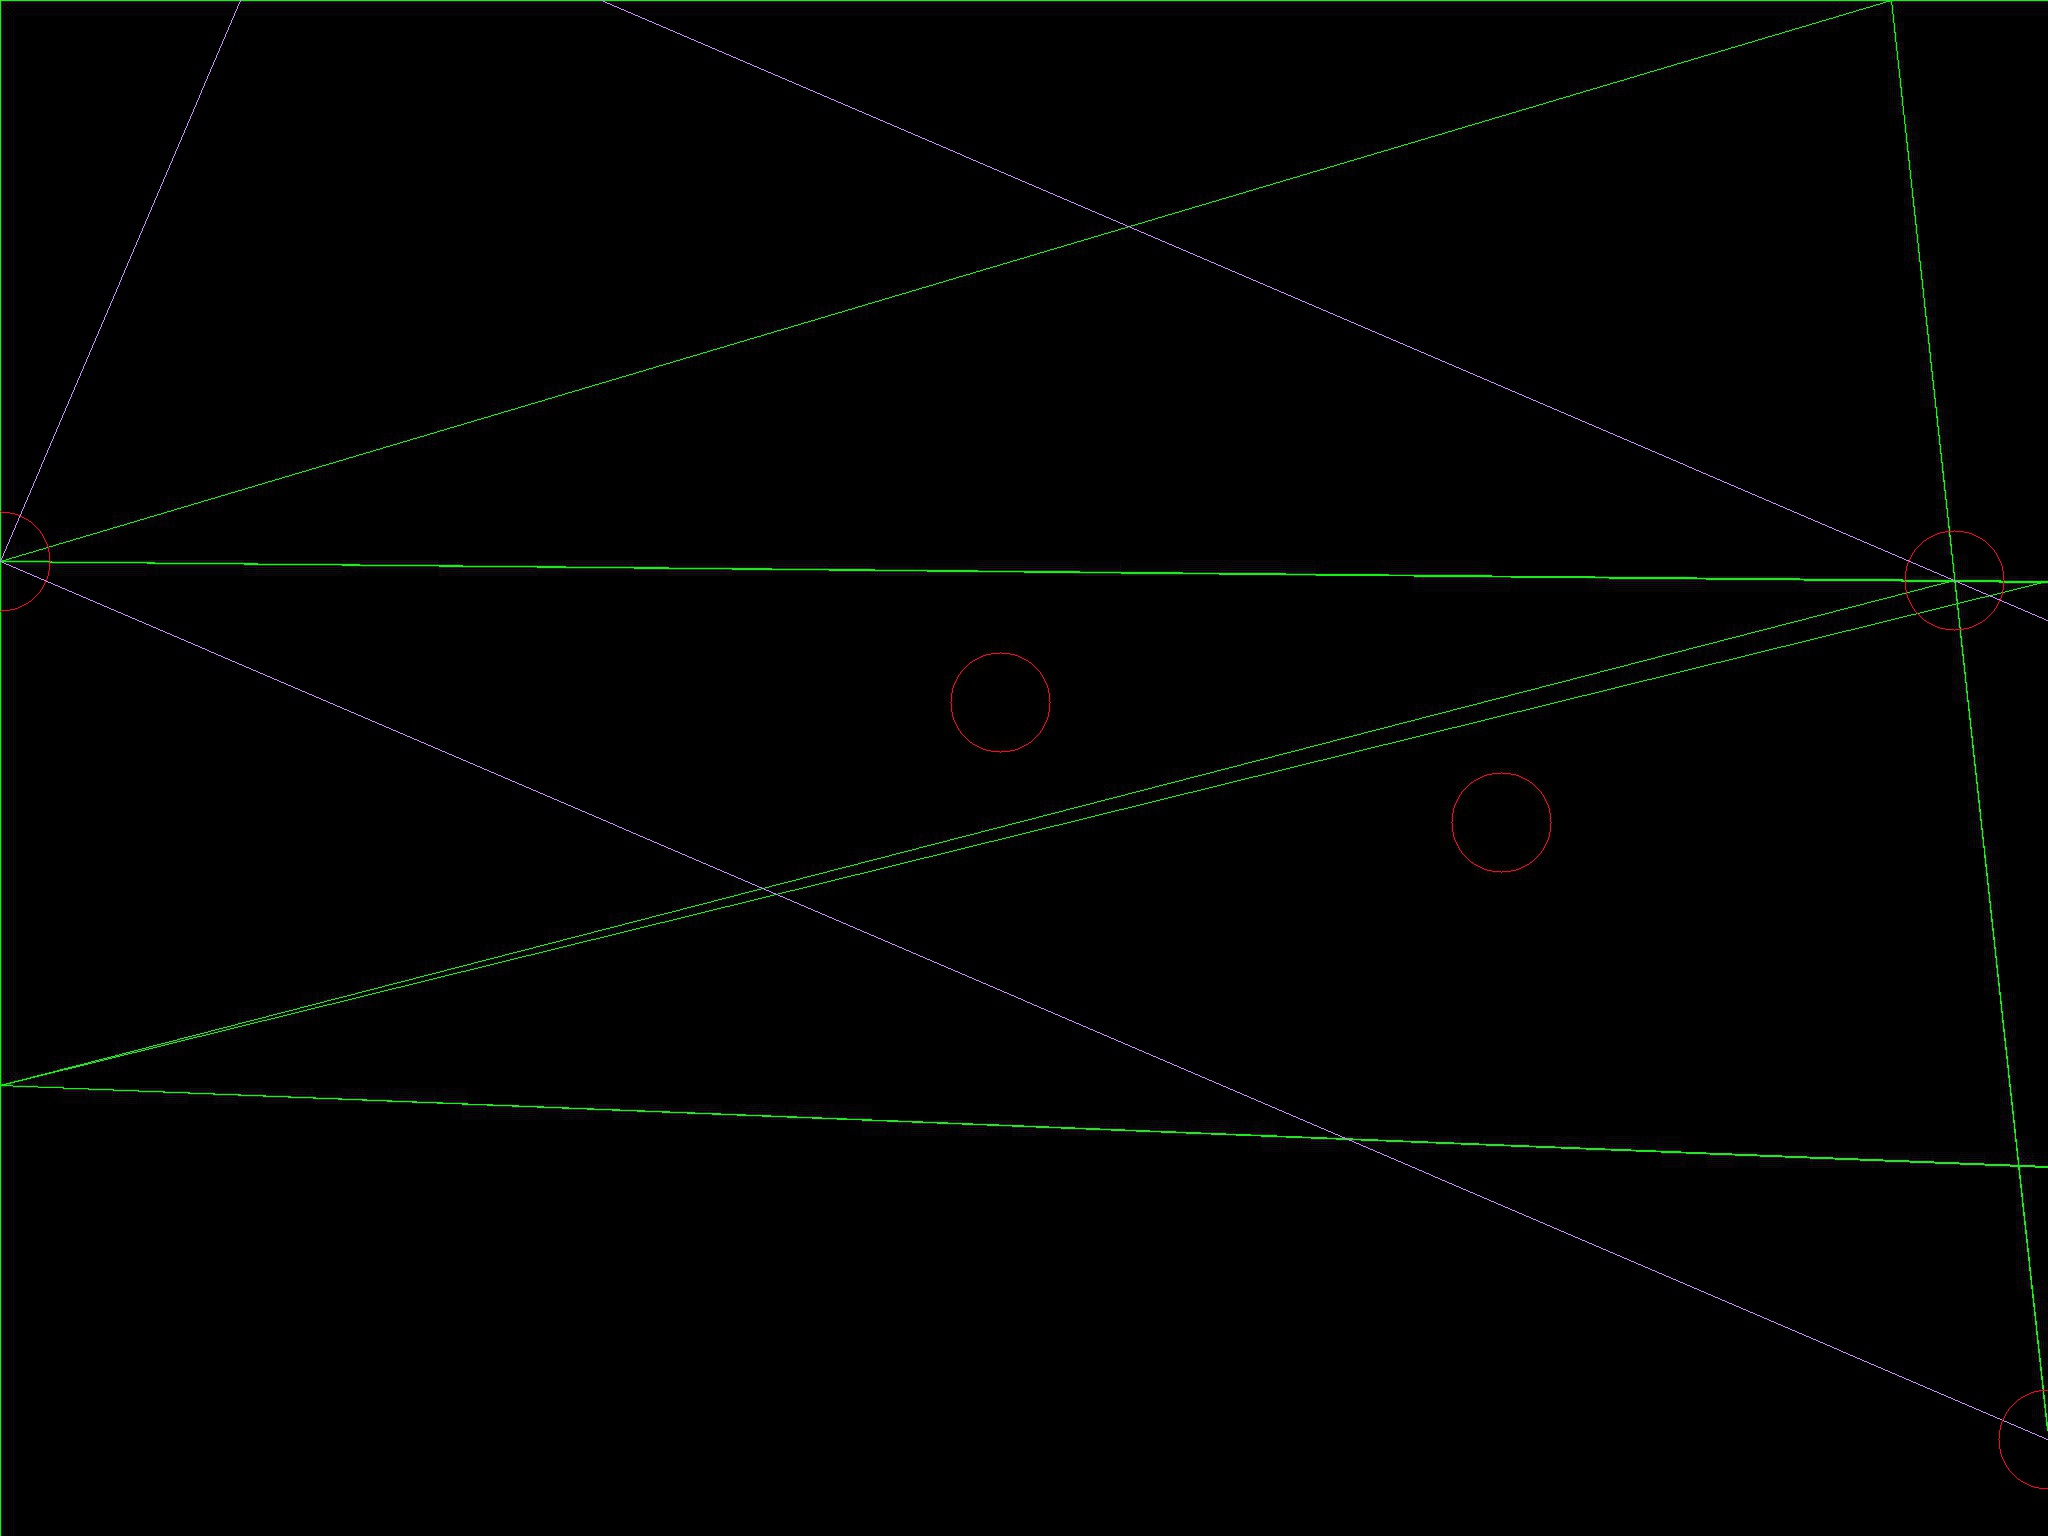
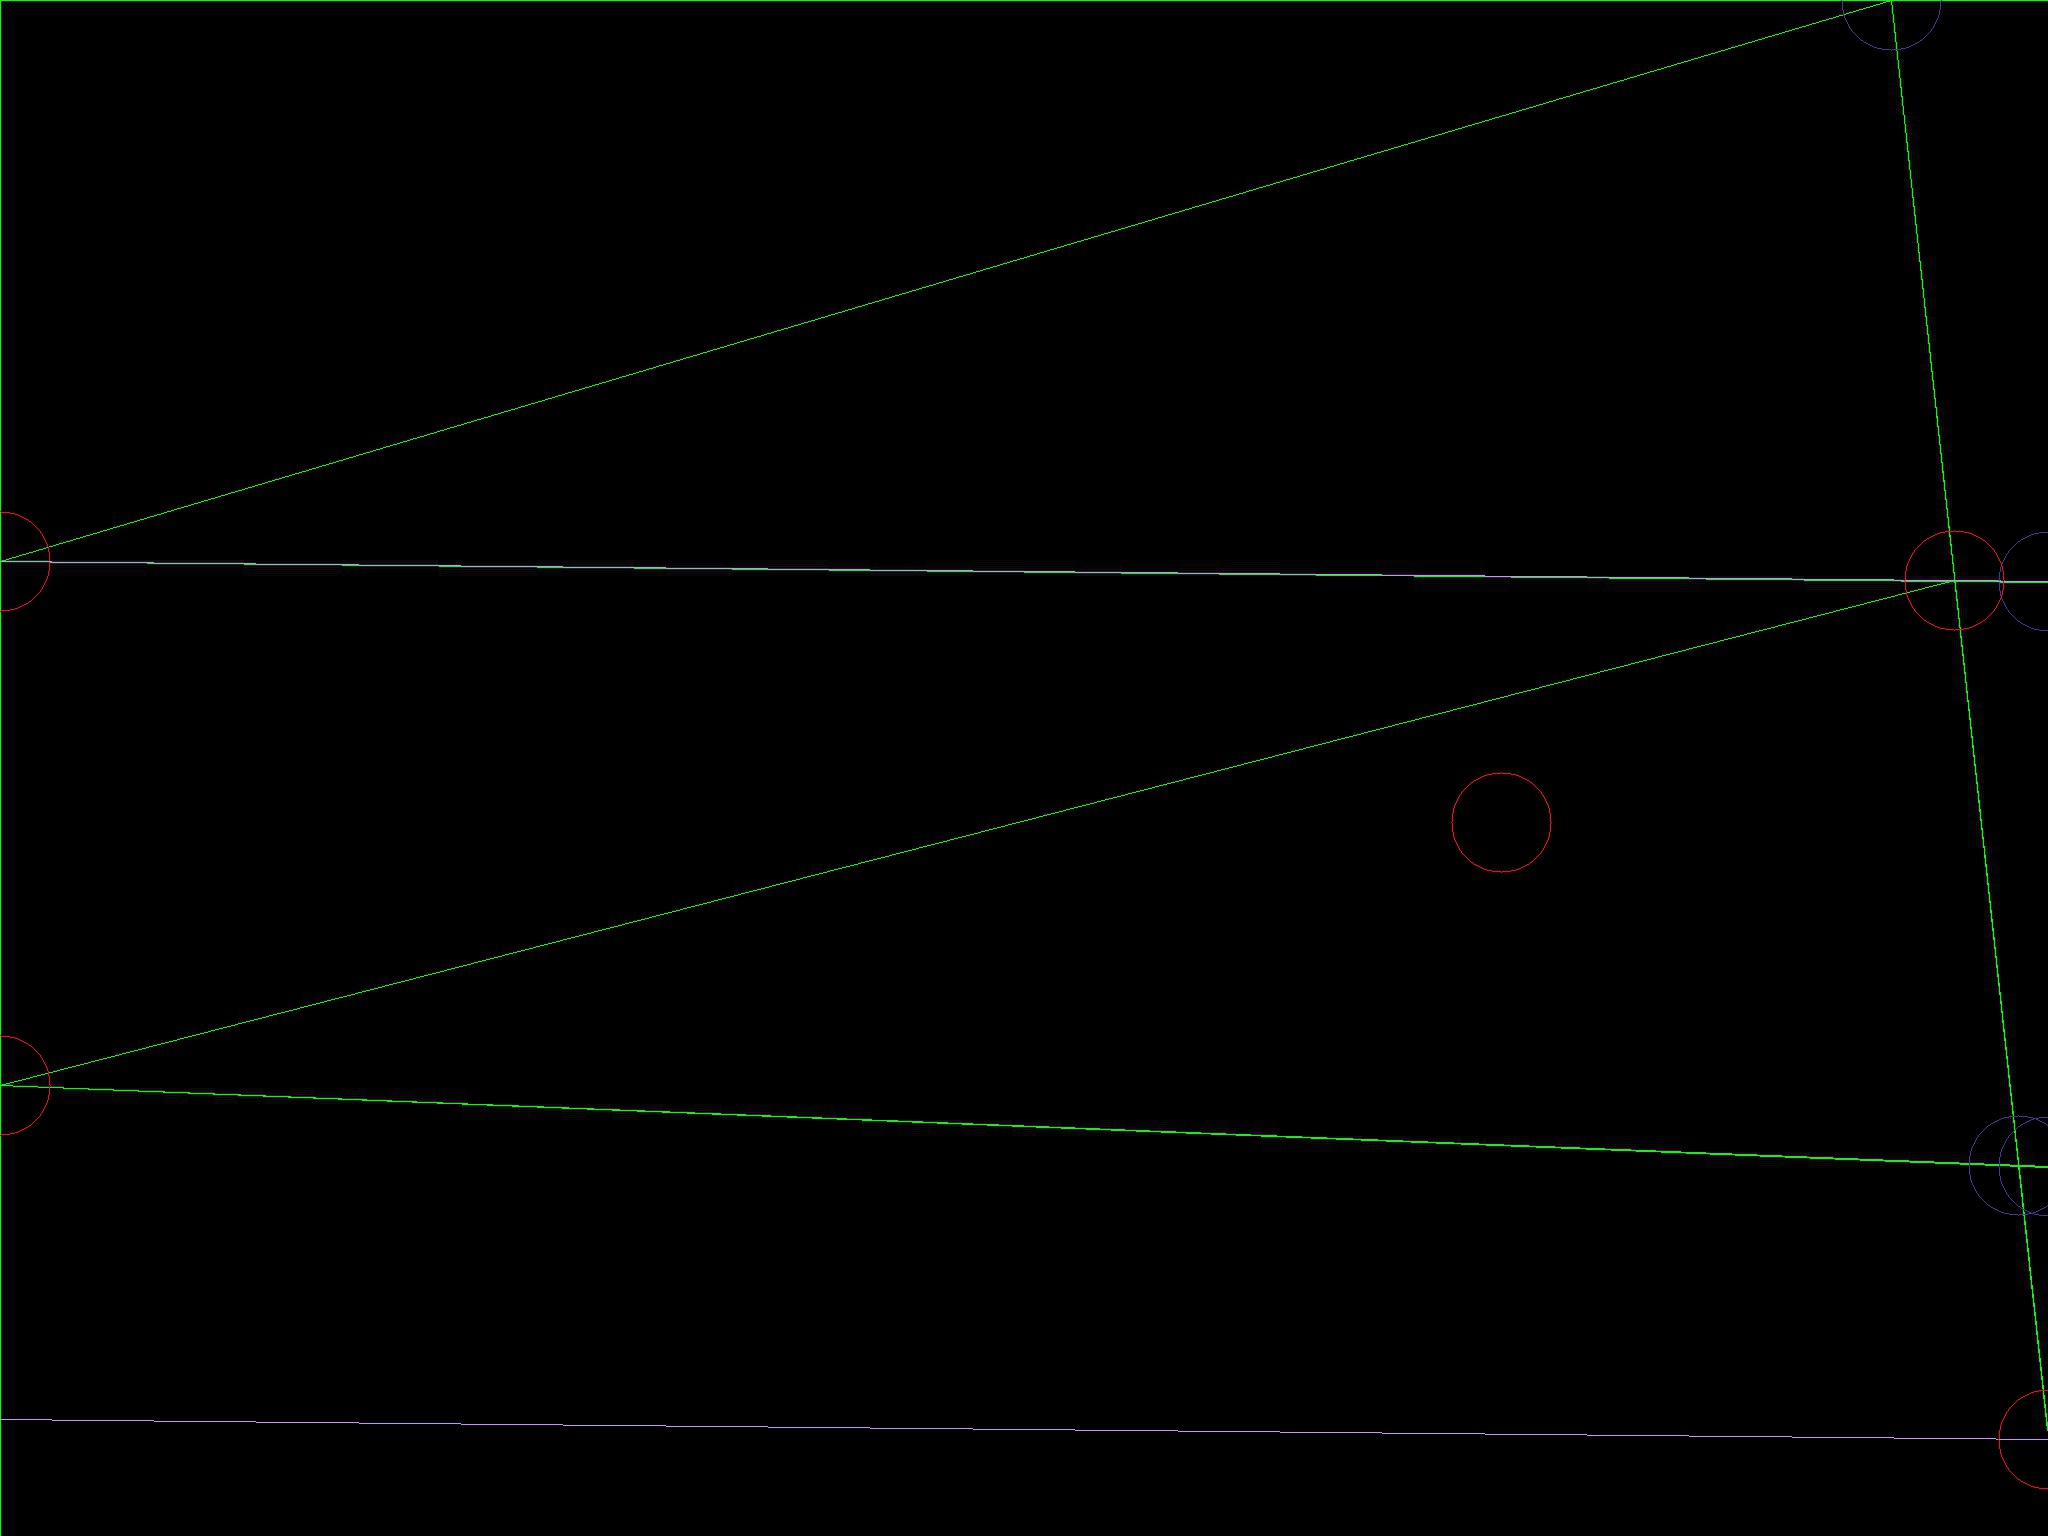
go the bug - it adds 2 points next to each other - not good algo with sorting - should kmean split further... and then maybe closest to center?
may the force be with you,

suck Shawn, suck

Changed region(s): [[0.9062, 0.375, 1.0, 0.4062]]

diff --git a/ocr/longest_closed.cc b/ocr/longest_closed.cc
@@ -174,9 +174,9 @@ bool corners_magick_do( Size mat_size, std::vector<cv::Point>& corners /*points4
     center += corners[i];
   center *= ( 1. / corners.size() );
 
-  std::cout << "corners, center: " << corners << ',' << center << std::endl;
+  // std::cout << "corners, center: " << corners << ',' << center << std::endl;
 
- are4pointsfine = sortCorners ( corners, center );
+  are4pointsfine = sortCorners ( corners, center );
 
   if ( !are4pointsfine ) {
     std::cout << "The corners were not sorted correctly!" << std::endl;
@@ -400,6 +400,7 @@ void sort_points_closest_2center (  std::vector<cv::Point>& points4 ) {
   Mat llabels, centers;
   kmeans(points4f, clusterCount, llabels, TermCriteria(CV_TERMCRIT_ITER|CV_TERMCRIT_EPS, 100, 0.0001), attempts, KMEANS_PP_CENTERS, centers );
 
+
   std::vector<int> labels = llabels;
   std::vector<cv::Point> points40, points41;
   for ( int i=0; i<(int)labels.size(); ++i ) {
@@ -417,10 +418,11 @@ void sort_points_closest_2center (  std::vector<cv::Point>& points4 ) {
     std::sort(points40.begin(), points40.end(), less_custom_sort_points());
   }
 
+  std::cout << "sort points: \ncenter: " << center << "\nlabels: " << llabels << "\npoints41: " << points41 << "\npoints40: " << points40 << std::endl;
+
   points4.clear(); /*clear and re-push closest points...*/
 
   // TODO - go on from here - implement additional logic for point on border... - then farthest...
-
   int to = 2; points40.size()<2 && (to=3);
   for ( int i=0; i<(int)points41.size() && i<to; ++i ){
     points4.push_back(points41[i]);
@@ -430,6 +432,8 @@ void sort_points_closest_2center (  std::vector<cv::Point>& points4 ) {
   for ( int i=0; i<(int)points40.size() && i<to; ++i ){
     points4.push_back(points40[i]);
   }
+
+  std::cout << "\npoints4: " << points4 << std::endl;
 
   corners_magick_do(size_mat, points4 /*ref*/);
 
@@ -460,21 +464,21 @@ void additional_logic_closest2center ( std::vector<cv::Point>& points4, std::vec
     if(point_found) points_where_2search = points41;
 
   }
-  if ( point_found ) {
-    for ( int i=0; i<(int)points_where_2search.size(); ++i ) {
+  if ( !(point_found && points_where_2search.size()>2 /*!*/) ) return;
 
-      if ( point_index<0 && ppoint==points_where_2search[i] ) {
-        point_index = i;
+  for ( int i=0; i<(int)points_where_2search.size(); ++i ) {
+
+    if ( point_index<0 && ppoint==points_where_2search[i] ) {
+      point_index = i;
+    }
+    else {
+      // tl, tr
+      if ( tl_br_index<2 ) {
+        if ( points_where_2search[i].x==ppoint.x && points_where_2search[i].y<ppoint.y ) ppoint = points4[tl_br_index] = points_where_2search[i];
       }
+      //br, bl
       else {
-        // tl, tr
-        if ( tl_br_index<2 ) {
-          if ( points_where_2search[i].x==ppoint.x && points_where_2search[i].y<ppoint.y ) ppoint = points4[tl_br_index] = points_where_2search[i];
-        }
-        //br, bl
-        else {
-          if ( points_where_2search[i].x==ppoint.x && points_where_2search[i].y>ppoint.y ) ppoint = points4[tl_br_index] = points_where_2search[i];
-        }
+        if ( points_where_2search[i].x==ppoint.x && points_where_2search[i].y>ppoint.y ) ppoint = points4[tl_br_index] = points_where_2search[i];
       }
     }
   }
@@ -482,16 +486,19 @@ void additional_logic_closest2center ( std::vector<cv::Point>& points4, std::vec
 
 void final_magic_crop_rotate ( Mat mat,  std::vector<cv::Point>& points4 ) {
 
-  if ( points4.size()>4 ){
-    sort_points_closest_2center(points4);
-    // Point pfirst = points4[0]; points4.erase(points4.begin()); // points4.push_back(pfirst);
-  }
-
   Mat mb;
   if ( file_exists("./img_pre/long7.jpg") )
     mb = imread("./img_pre/long7.jpg");
   else
     mb = Mat::zeros( mat.size(), CV_8UC3 );
+
+  if ( points4.size()>4 ) { /*for sor points - draw all circles*/
+    for ( int i=0; i<(int)points4.size(); ++i ) {
+      cv::circle ( mb, points4[i], 50, cv::Scalar(150,55,70) );
+    }
+    sort_points_closest_2center(points4);
+    // Point pfirst = points4[0]; points4.erase(points4.begin()); // points4.push_back(pfirst);
+  }
 
   std::vector<cv::Point2f> points4f;
   // this here is probably closest to the size of the original invoice... well, let's try... tension :)
